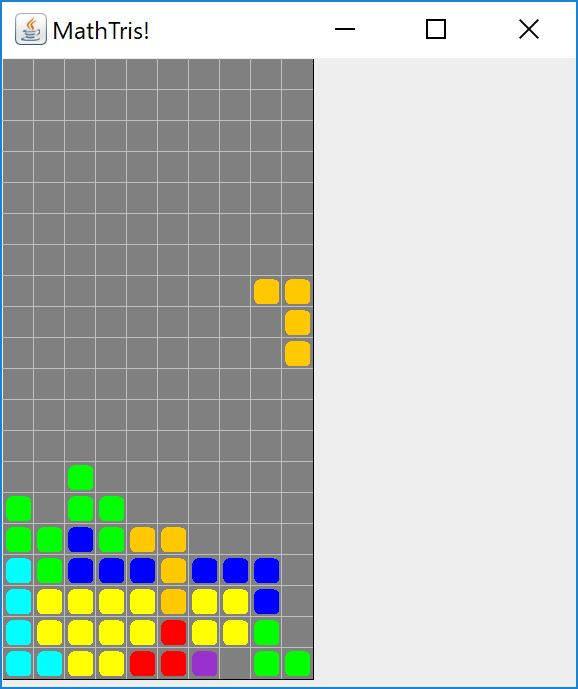
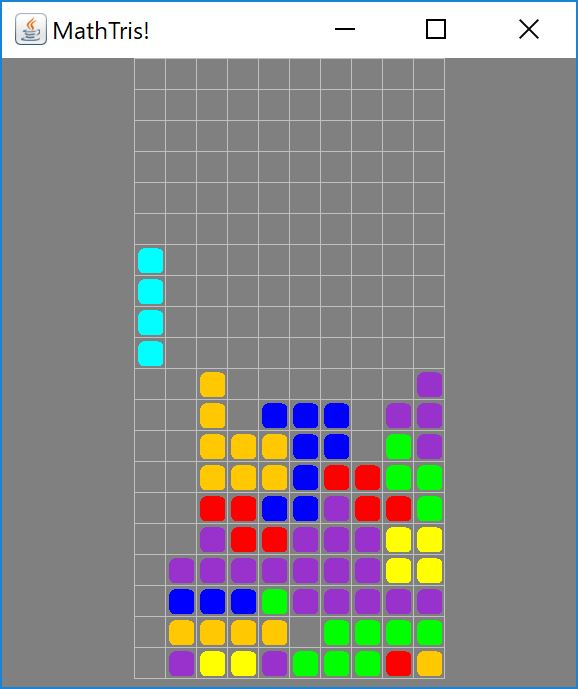
Better rotation

diff --git a/src/game/Board.java b/src/game/Board.java
@@ -101,30 +101,29 @@ public class Board extends JPanel implements KeyListener {
 	}
 	
 	private void updateGameBoard() {
-		Color c = currentShape.getColor();
+		Color color = currentShape.getColor();
 		int xpos = currentShape.getXPos();
 		int ypos = currentShape.getYPos();
 		boolean[][] coords = currentShape.getCoords();
-		BitSet shapeRowBS = new BitSet(Shape.GRID_SIZE);
-		for (int i=0; i<Shape.GRID_SIZE; i++) {
+		int tabLen = coords.length;
+		BitSet shapeRowBS = new BitSet(tabLen);
+		for (int i=0; i<tabLen; i++) {
 			/*
 			 * Get the line of the current shape
 			 * Ex.
 			 * 0100
 			 * 1110 <- curLine
-			 * 0000
 			 * 0000 
 			 */
-			shapeRowBS.set(0, coords[i][0]);
-			shapeRowBS.set(1, coords[i][1]);
-			shapeRowBS.set(2, coords[i][2]);
-			shapeRowBS.set(3, coords[i][3]);
+			for (int c=0; c<tabLen; c++) {
+				shapeRowBS.set(c, coords[i][c]);
+			}
 			
 			if (!shapeRowBS.isEmpty()) {
-				for (int change=0; change<Shape.GRID_SIZE; change++) {
+				for (int change=0; change<tabLen; change++) {
 					if (shapeRowBS.get(change)) {
 						gBoard.get(ypos+i).get(xpos+change).key = true;
-						gBoard.get(ypos+i).get(xpos+change).value = c;
+						gBoard.get(ypos+i).get(xpos+change).value = color;
 						// If the line is complete, remove it
 						boolean completeLine = gBoard.get(ypos+i).stream().filter(p -> p.key).count() == xcase;
 						if (completeLine) {
@@ -148,9 +147,10 @@ public class Board extends JPanel implements KeyListener {
 		// to avoid change on currentShape
 		// I think we can do better than this
 		boolean[][] old_coords = currentShape.getCoords();
-		boolean[][] coords = new boolean[Shape.GRID_SIZE][Shape.GRID_SIZE];
-		for (int i = 0; i < Shape.GRID_SIZE; i++) {
-		    System.arraycopy(old_coords[i], 0, coords[i], 0, Shape.GRID_SIZE);
+		int tabLen = old_coords.length;
+		boolean[][] coords = new boolean[tabLen][tabLen];
+		for (int i = 0; i < tabLen; i++) {
+		    System.arraycopy(old_coords[i], 0, coords[i], 0, tabLen);
 		}
 		Shape potentialNewShape = new Shape(currentShape.getColor(), coords);
 		potentialNewShape.setPos(currentShape.getXPos(), currentShape.getYPos());
@@ -179,21 +179,19 @@ public class Board extends JPanel implements KeyListener {
 		int xpos = potentialNewShape.getXPos();
 		int ypos = potentialNewShape.getYPos();
 		potentialNewShape = null;
-		BitSet shapeRowBS = new BitSet(Shape.GRID_SIZE);
-		BitSet boardRowBS = new BitSet(Shape.GRID_SIZE);
-		for (int i=0; i<Shape.GRID_SIZE && ret==true; i++) {
+		BitSet shapeRowBS = new BitSet(tabLen);
+		BitSet boardRowBS = new BitSet(tabLen);
+		for (int i=0; i<tabLen && ret==true; i++) {
 			/*
 			 * Get the line of the current shape
 			 * Ex.
 			 * 0100
 			 * 1110 <- curLine
 			 * 0000
-			 * 0000 
 			 */
-			shapeRowBS.set(0, coords[i][0]);
-			shapeRowBS.set(1, coords[i][1]);
-			shapeRowBS.set(2, coords[i][2]);
-			shapeRowBS.set(3, coords[i][3]);
+			for (int c=0; c<tabLen; c++) {
+				shapeRowBS.set(c, coords[i][c]);
+			}
 			
 			if (!shapeRowBS.isEmpty()) {
 				if (move == Move.DOWN) {
@@ -202,7 +200,7 @@ public class Board extends JPanel implements KeyListener {
 					if (ypos+i < ycase) {
 						boardRowBS.clear();
 						Vector<Pair<Boolean, Color>> vRow = gBoard.get(ypos+i);
-						for (int vr=0; vr<Shape.GRID_SIZE; vr++) {
+						for (int vr=0; vr<tabLen; vr++) {
 							if (0 <= xpos+vr && xpos+vr < xcase) {
 								boardRowBS.set(vr, vRow.get(xpos+vr).key);
 							}
@@ -214,13 +212,13 @@ public class Board extends JPanel implements KeyListener {
 					}
 				} else {
 					int left = shapeRowBS.nextSetBit(0);
-					int right = shapeRowBS.previousSetBit(Shape.GRID_SIZE-1);
+					int right = shapeRowBS.previousSetBit(tabLen-1);
 					// Check border
 					ret = (0 <= xpos+left) && (xpos+right < xcase);
 					// Check other shapes
 					if (ret) {
 						Vector<Pair<Boolean, Color>> vRow = gBoard.get(ypos+i);
-						for (int vr=0; vr<Shape.GRID_SIZE; vr++) {
+						for (int vr=0; vr<tabLen; vr++) {
 							if (0 <= xpos+vr && xpos+vr < xcase) {
 								boardRowBS.set(vr, vRow.get(xpos+vr).key);
 							}
@@ -244,22 +242,22 @@ public class Board extends JPanel implements KeyListener {
 		int squared = wcase < hcase ? wcase : hcase;
 		int xmax = xcase*squared;
 		int ymax = ycase*squared;
+		int xPlayBegin = (getWidth()/2)-(xmax/2);
 		
 		// Draw the board rect
-		g.setColor(Color.black);
-		g.drawRect(1, 1, xmax, ymax);
 		g.setColor(Color.gray);
-		g.fillRect(1, 1, xmax, ymax);
+		g.fillRect(0, 0, getWidth(), getHeight());
 		// Draw the grid
 		g.setColor(Color.lightGray);
 		for (int i=1; i<xcase; i++) {
 			// Vertical grid
-			g.drawLine(i*squared, 0, i*squared, ymax);
+			g.drawLine(xPlayBegin+i*squared, 0, xPlayBegin+i*squared, ymax);
 			for (int j=1; j<ycase; j++) {
 				// Horizontal grid
-				g.drawLine(0, j*squared, xmax, j*squared);
+				g.drawLine(xPlayBegin, j*squared, xPlayBegin+xmax, j*squared);
 			}
 		}
+		g.drawRect(xPlayBegin, 0, xmax, ymax);
 		
 		// Draw the controllable shape
 		g.setColor(currentShape.getColor());
@@ -267,10 +265,11 @@ public class Board extends JPanel implements KeyListener {
 		int yshape = currentShape.getYPos();
 		int padding=4, arc=10;
 		boolean[][] shape_coords = currentShape.getCoords();
-		for (int i=0; i<Shape.GRID_SIZE; i++) {
-			for (int j=0; j<Shape.GRID_SIZE; j++) {
+		int tabLen = shape_coords.length;
+		for (int i=0; i<tabLen; i++) {
+			for (int j=0; j<tabLen; j++) {
 				if (shape_coords[j][i]) {
-					g.fillRoundRect((xshape+i)*squared+padding,
+					g.fillRoundRect(xPlayBegin+(xshape+i)*squared+padding,
 							(yshape+j)*squared+padding,
 							squared-padding-2,
 							squared-padding-2,
@@ -285,7 +284,7 @@ public class Board extends JPanel implements KeyListener {
 				Pair<Boolean, Color> p = gBoard.get(i).get(j);
 				if (p.key) {
 					g.setColor(p.value);
-					g.fillRoundRect(j*squared+padding,
+					g.fillRoundRect(xPlayBegin+j*squared+padding,
 							i*squared+padding,
 							squared-padding-2,
 							squared-padding-2,

diff --git a/src/game/Shape.java b/src/game/Shape.java
@@ -4,38 +4,32 @@ import java.awt.Color;
 
 public class Shape {
 	
-	public static final int GRID_SIZE = 4;
 	private Color color;
 	private boolean[][] coords;
 	private int x, y;
 	
 	/**
 	 * Represent a tile with coordinates in a square
-	 * Ex. (TTile)
-	 *  _ _ _ _
-	 * |_|1|_|_|
-	 * |1|1|1|_|
-	 * |_|_|_|_|
-	 * |_|_|_|_|
+	 * Ex. (TTile) All tetrominos must be representated in a square
+	 *  _ _ _ 
+	 * |_|1|_|
+	 * |1|1|1|
+	 * |_|_|_|
 	 */
 	enum TileShape {
 		ZTile(new boolean[][] {
-			{false, true, true, false},
-			{false, false, true, true},
-			{false, false, false, false},
-			{false, false, false, false}
+			{true, true, false},
+			{false, true, true},
+			{false, false, false}
 		}),
 		STile(new boolean[][] {
-			{false, true, true, false},
-			{true, true, false, false},
-			{false, false, false, false},
-			{false, false, false, false}
+			{false, true, true},
+			{true, true, false},
+			{false, false, false}
 		}),
 		SquareTile(new boolean[][] {
-			{false, true, true, false},
-			{false, true, true, false},
-			{false, false, false, false},
-			{false, false, false, false}
+			{true, true},
+			{true, true}
 		}),
 		LineTile(new boolean[][] {
 			{false, true, false, false},
@@ -44,22 +38,19 @@ public class Shape {
 			{false, true, false, false}
 		}),
 		TTile(new boolean[][] {
-			{false, true, false, false},
-			{true, true, true, false},
-			{false, false, false, false},
-			{false, false, false, false}
+			{false, true, false},
+			{true, true, true},
+			{false, false, false}
 		}),
 		LTile(new boolean[][] {
-			{false, true, false, false},
-			{false, true, false, false},
-			{false, true, true, false},
-			{false, false, false, false}
+			{false, true, false},
+			{false, true, false},
+			{false, true, true}
 		}),
 		JTile(new boolean[][] {
-			{false, true, false, false},
-			{false, true, false, false},
-			{true, true, false, false},
-			{false, false, false, false}
+			{false, true, false},
+			{false, true, false},
+			{true, true, false}
 		});
 		
 		private boolean[][] coords;
@@ -125,14 +116,14 @@ public class Shape {
 	 */
 	public void rotateLeft() {
 		if (coords != TileShape.SquareTile.getCoords()) {
+			int tabLen = coords.length;
 			boolean [][] old_coords = coords;
-			boolean [][] new_coords = new boolean[GRID_SIZE][GRID_SIZE];
+			boolean [][] new_coords = new boolean[tabLen][tabLen];
 			// for each row...
-			for (int r=0; r<GRID_SIZE; r++) {
-				new_coords[0][r] = old_coords[r][3];
-				new_coords[1][r] = old_coords[r][2];
-				new_coords[2][r] = old_coords[r][1];
-				new_coords[3][r] = old_coords[r][0];
+			for (int r=0; r<tabLen; r++) {
+				for (int c=0; c<tabLen; c++) {
+					new_coords[c][r] = old_coords[r][(tabLen-1)-c];
+				}
 			}
 			coords = new_coords;
 		}
@@ -140,14 +131,14 @@ public class Shape {
 	
 	public void rotateRight() {
 		if (coords != TileShape.SquareTile.getCoords()) {
+			int tabLen = coords.length;
 			boolean [][] old_coords = coords;
-			boolean [][] new_coords = new boolean[GRID_SIZE][GRID_SIZE];
+			boolean [][] new_coords = new boolean[tabLen][tabLen];
 			// for each row...
-			for (int r=0; r<GRID_SIZE; r++) {
-				new_coords[r][0] = old_coords[3][r];
-				new_coords[r][1] = old_coords[2][r];
-				new_coords[r][2] = old_coords[1][r];
-				new_coords[r][3] = old_coords[0][r];
+			for (int r=0; r<tabLen; r++) {
+				for (int c=0; c<tabLen; c++) {
+					new_coords[r][c] = old_coords[(tabLen-1)-c][r];
+				}
 			}
 			coords = new_coords;
 		}
